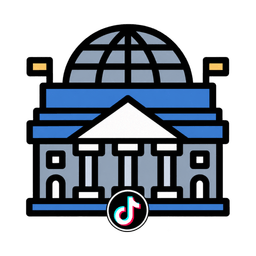
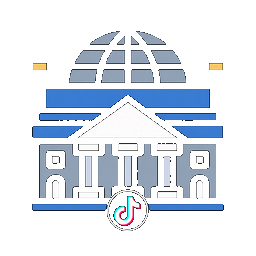
Remove black frames from channel badges.

Changed region(s): [[0.0938, 0.0938, 0.9062, 0.9062]]

diff --git a/src/styles/premium.css b/src/styles/premium.css
@@ -280,17 +280,25 @@
 }
 
 .channel-badge {
+  --badge-color: #e8c478;
   display: grid;
   place-items: center;
   flex: 0 0 auto;
   aspect-ratio: 1;
-  border-radius: 16px;
-  overflow: hidden;
-  background: #000;
-  border: 1px solid rgba(255, 255, 255, 0.08);
+  border-radius: 0;
+  overflow: visible;
+  background: transparent;
+  border: 0;
+  box-shadow: none;
   text-decoration: none;
-  transition: transform 160ms ease, border-color 160ms ease, box-shadow 160ms ease;
+  transition: transform 160ms ease, filter 160ms ease;
 }
+
+.channel-badge.is-youtube { --badge-color: #ff0033; }
+.channel-badge.is-tiktok { --badge-color: #25f4ee; }
+.channel-badge.is-telegram { --badge-color: #2aabee; }
+.channel-badge.is-whatsapp { --badge-color: #25d366; }
+.channel-badge.is-x { --badge-color: #e7e9ea; }
 
 .channel-badge img {
   display: block;
@@ -298,13 +306,14 @@
   height: 100%;
   object-fit: contain;
   object-position: center;
+  background: transparent;
+  filter: drop-shadow(0 0 0.5px color-mix(in srgb, var(--badge-color) 80%, transparent));
 }
 
 .channel-badge:hover,
 .channel-badge:focus-visible {
   transform: translateY(-2px);
-  border-color: rgba(232, 196, 120, 0.5);
-  box-shadow: 0 10px 24px rgba(0, 0, 0, 0.28);
+  filter: drop-shadow(0 8px 16px color-mix(in srgb, var(--badge-color) 35%, transparent));
 }
 
 .channel-badges.is-header {
@@ -316,7 +325,6 @@
 .channel-badges.is-header .channel-badge {
   width: 30px;
   height: 30px;
-  border-radius: 8px;
 }
 
 .channel-badges.is-menu {
@@ -327,7 +335,6 @@
 .channel-badges.is-menu .channel-badge {
   width: 56px;
   height: 56px;
-  border-radius: 14px;
 }
 
 .channel-badges.is-section {
@@ -344,7 +351,6 @@
   width: min(112px, 100%);
   height: auto;
   aspect-ratio: 1;
-  border-radius: 18px;
 }
 
 @media (max-width: 700px) {
@@ -355,7 +361,6 @@
 
   .channel-badges.is-section .channel-badge {
     width: min(72px, 100%);
-    border-radius: 14px;
   }
 }
 
